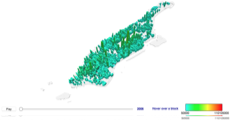
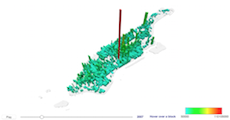
update paly button

diff --git a/housing/newindex.html b/housing/newindex.html
@@ -430,8 +430,7 @@ changeYear(Math.floor(value));
 //button
 d3.select("#example98 button").on("click", function() {
   
-if (d3.select("#example98 button").text() === 'Play'){
-  d3.select("#example98 button").text('Reset');
+
 
 slider
     .call(brush.event)
@@ -447,18 +446,8 @@ slider
   .ease("linear")
     .duration(10000)
     .call(brush.extent([2015, 2015]))
-    .call(brush.event);}
+    .call(brush.event);
 
-else {
-
-
-slider
-    .call(brush.event)
-  .transition() // gratuitous intro!
-  .duration(0);
-  d3.select("#example98 button").text('Play');
-
-}
 // slider.select('text').transition.ease("linear")
 //     .duration(10000).attr("x", 480);
 
@@ -466,7 +455,9 @@ slider
 
 
 
-
+ // for (i = 0 ; i < countries.length ; i++) {
+ //   scene.remove(toAdd[i]);
+ // }
 
 
 // //CONTROL OBJECT
